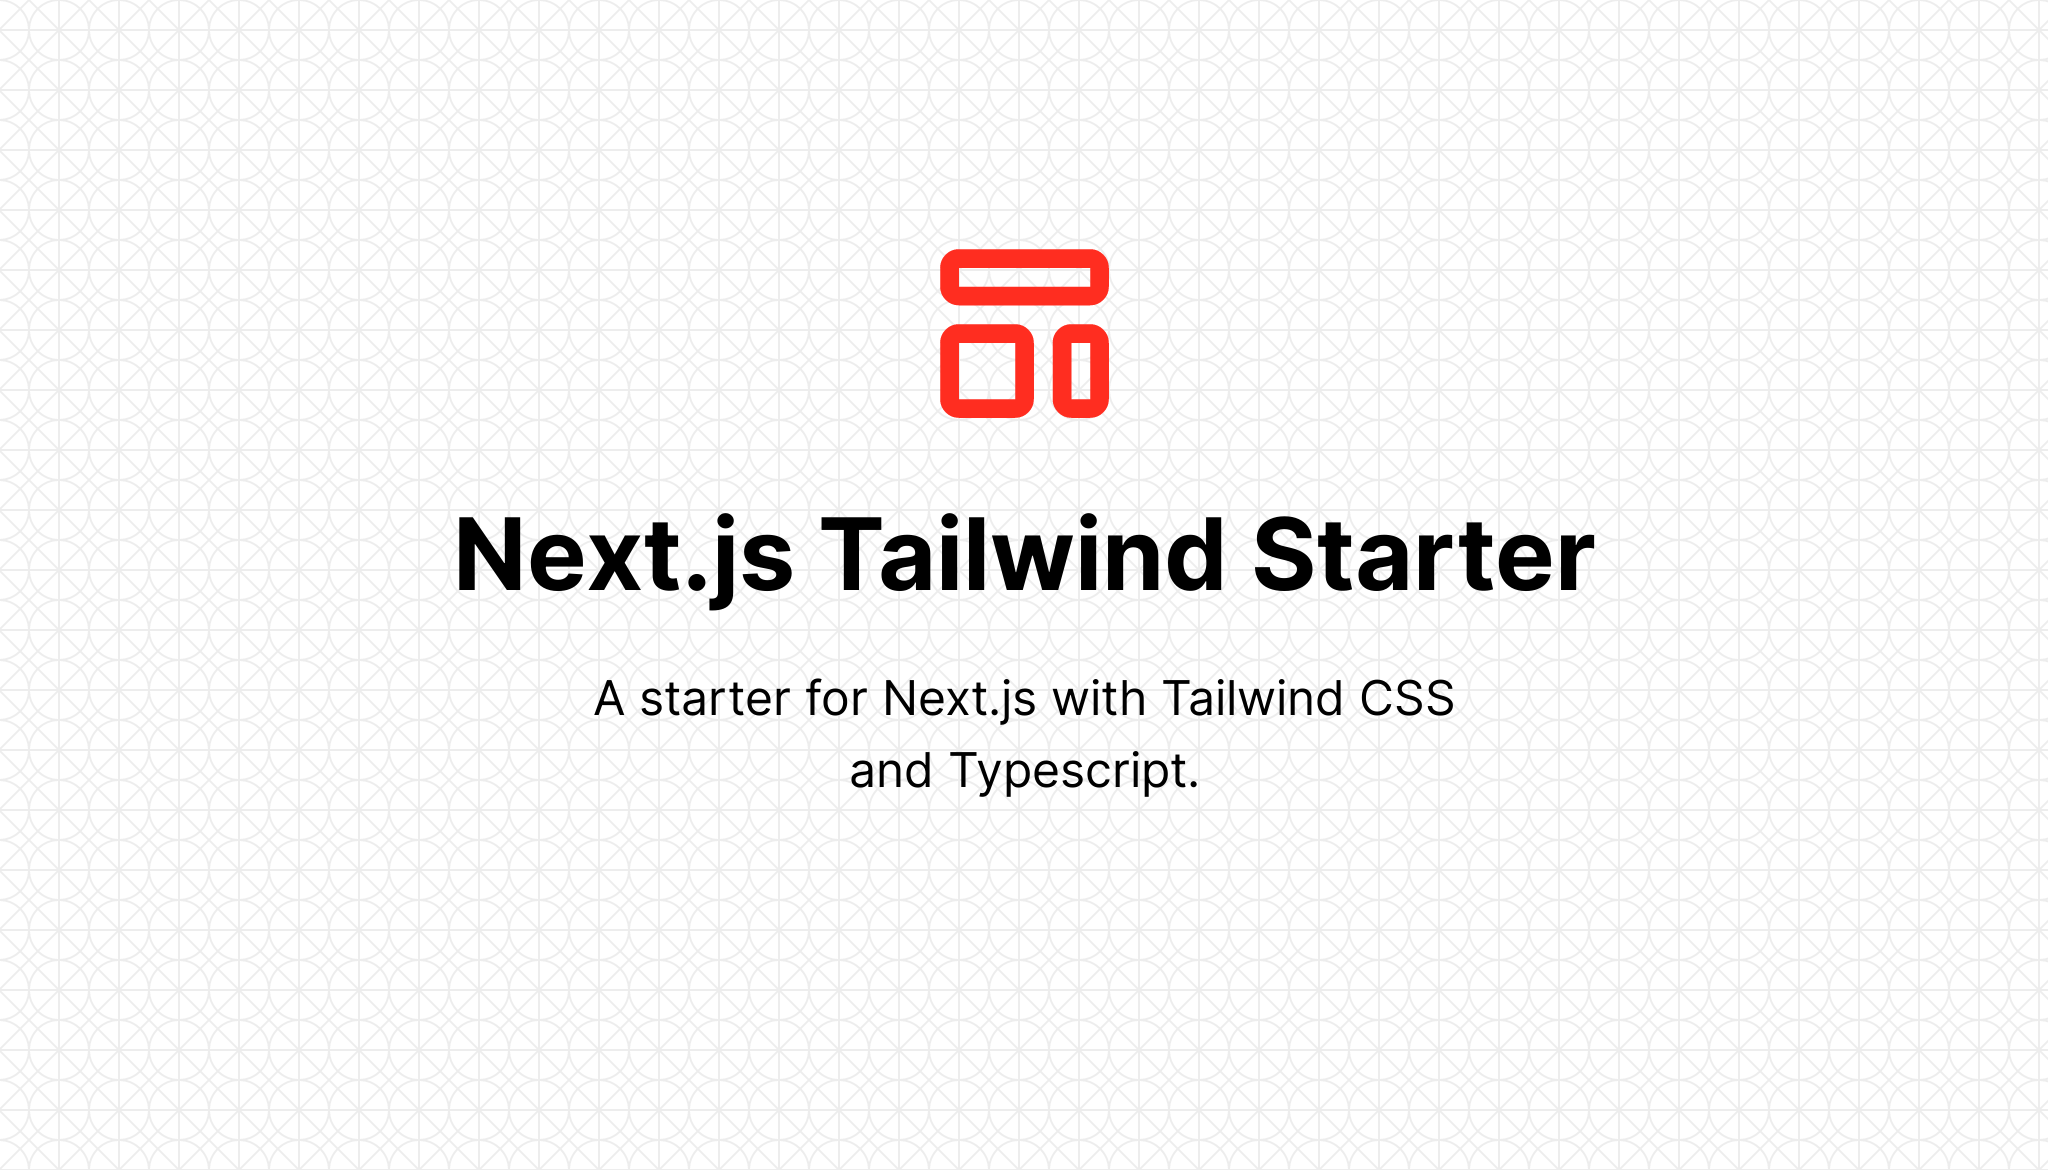
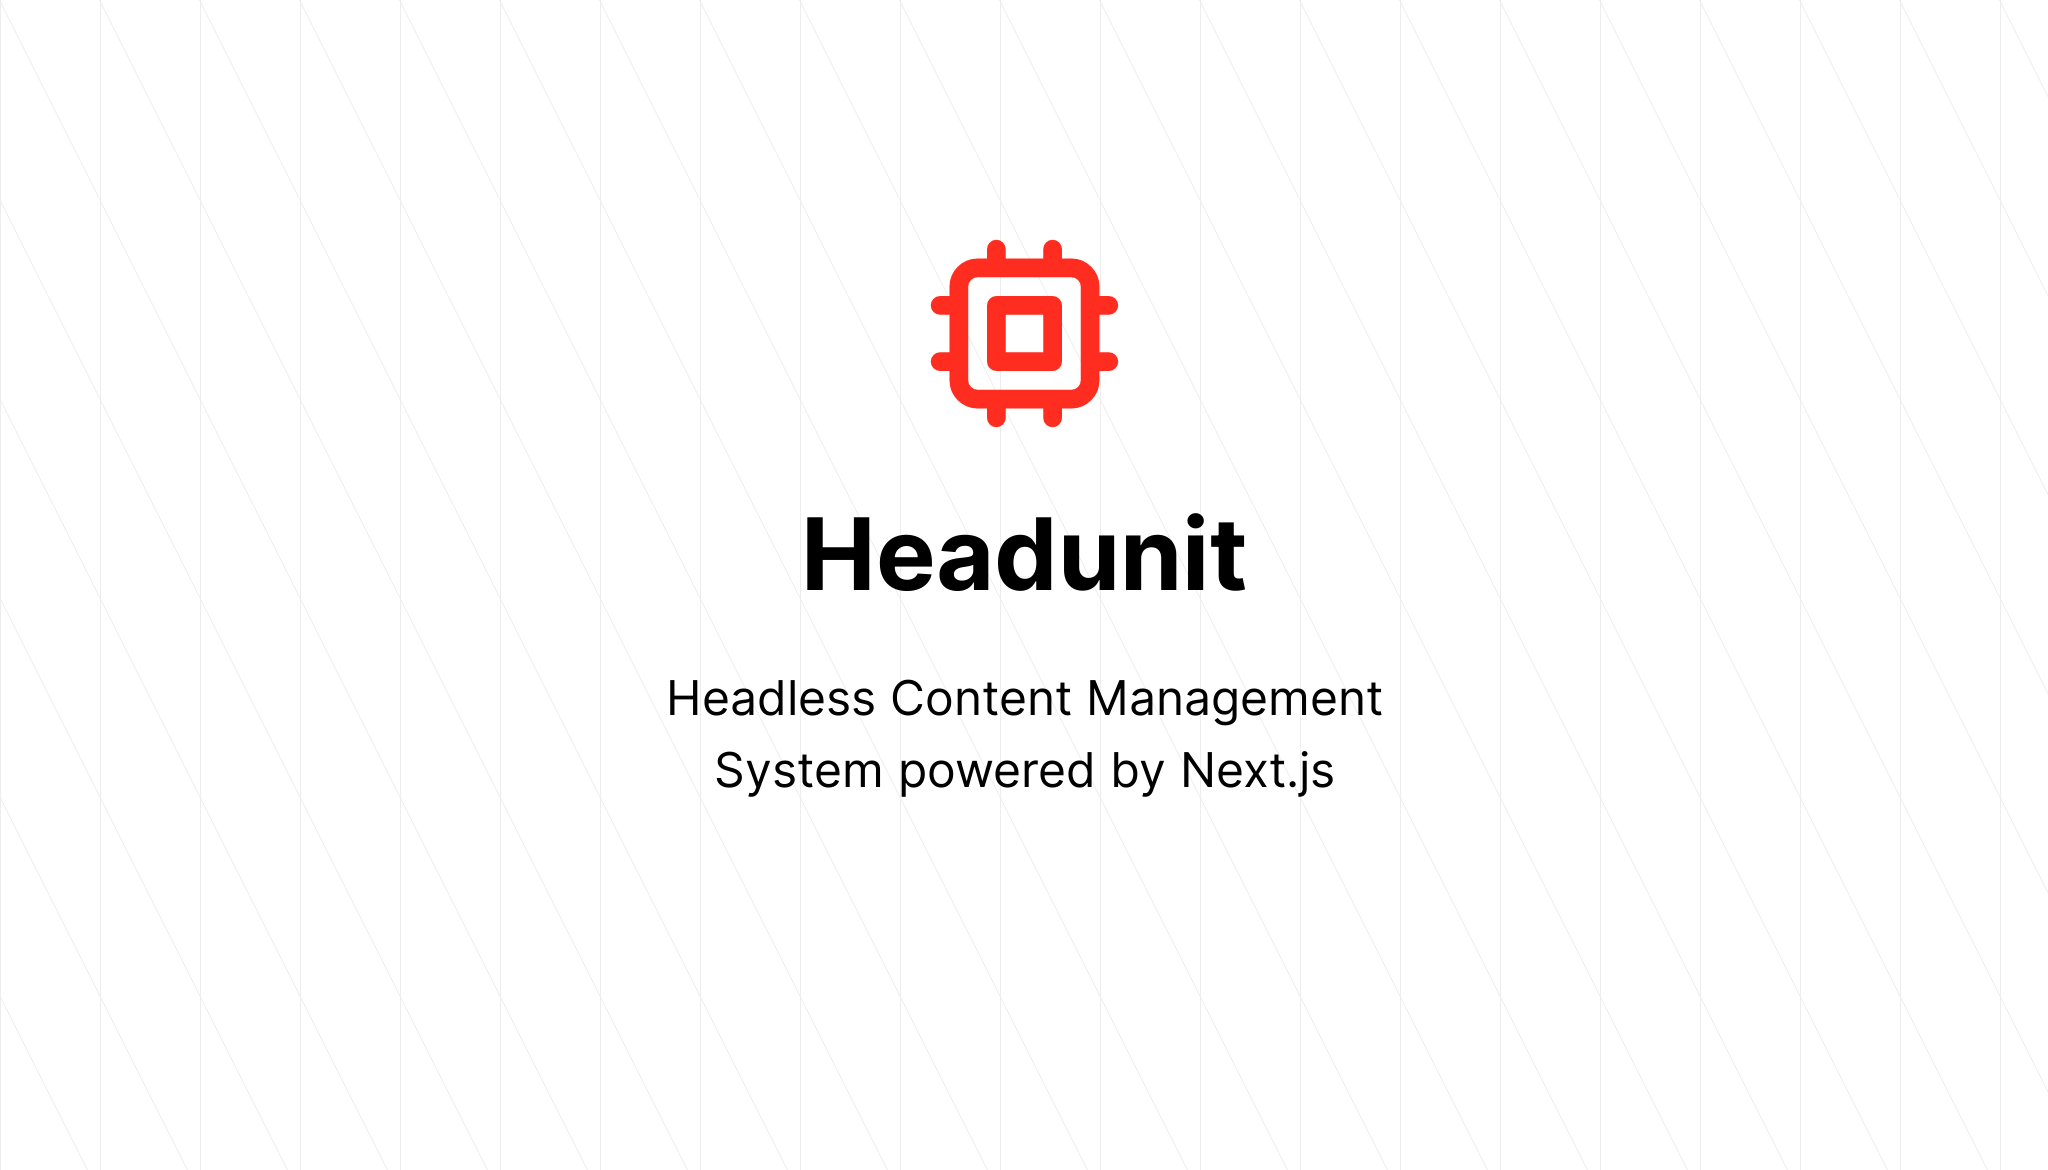
Push to Headunit

diff --git a/components/Elements/Maintenance.tsx b/components/Elements/Maintenance.tsx
@@ -28,7 +28,7 @@ const Maintenance = () => {
               </p>
               <div className='mt-6'>
                 <BasicLink
-                  href='https://aris.web.id'
+                  href='https://twitter.com/riipandi'
                   className='text-base font-medium text-brand-600 hover:text-brand-400'
                   newTab
                 >
@@ -41,7 +41,7 @@ const Maintenance = () => {
         <footer className='flex-shrink-0 w-full px-4 mx-auto max-w-7xl sm:px-6 lg:px-8'>
           <nav className='flex justify-center space-x-4'>
             <BasicLink href='https://aris.web.id' className='text-sm font-medium text-gray-500 hover:text-gray-600' newTab>
-              Homepage
+              Aris Ripandi
             </BasicLink>
             <span className='inline-block border-l border-gray-300' aria-hidden='true' />
             <BasicLink

diff --git a/config/site.ts b/config/site.ts
@@ -1,11 +1,11 @@
 export const siteMeta = {
-  defaultTitle: 'Elementail',
-  description: `Just another UI Kit using Tailwind CSS`,
+  defaultTitle: 'Headunit',
+  description: `Headless Content Management System powered by Next.js`,
   imageUrl: '/images/og-image.png',
   twitterUsername: '@riipandi',
 
   siteUrl: process.env.NEXT_PUBLIC_SITE_URL || 'http://localhost:3000',
-  maintenance: process.env.MAINTENANCE_MODE || false,
+  maintenance: process.env.MAINTENANCE_MODE || true,
 
   socials: {
     GitHub: 'https://github.com/riipandi',

diff --git a/next.config.js b/next.config.js
@@ -14,7 +14,7 @@ const nextConfig = {
   eslint: { dirs: ['.'] },
   reactStrictMode: true,
   poweredByHeader: false,
-  // basePath: isProd ? '/elementail-website' : null,
+  // basePath: isProd ? '/headunit-website' : null,
   assetPrefix: isProd ? 'https://headunit.js.org' : null
 }
 

diff --git a/readme.md b/readme.md
@@ -1,12 +1,14 @@
-![Github Cover](https://banners.beyondco.de/Next.js%20Tailwind%20Starter.png?theme=light&packageManager=&packageName=&pattern=pieFactory&style=style_1&description=A+starter+for+Next.js+with+Tailwind+CSS+and+Typescript.&md=1&showWatermark=1&fontSize=100px&images=template)
+![Github Cover](https://banners.beyondco.de/Headunit.png?theme=light&packageManager=&packageName=&pattern=architect&style=style_1&description=Headless+Content+Management+System+powered+by+Next.js&md=1&showWatermark=1&fontSize=100px&images=chip)
 
 <div align="center">
-    <strong>Elementail</strong>
+    <strong>Headless Content Management System powered by Next.js</strong>
 </div>
 
 ![separator](public/images/separator.jpg)
 
-Just another UI Kit using Tailwind CSS.
+A Headless CMS powered by [Next.js](https://nextjs.org/). Pre-configured with absolute import,
+[TailwindUI](https://tailwindui.com), [Framer Motion](https://www.framer.com/motion/), 
+and some goodies.
 
 ## Quick Start
 
@@ -15,6 +17,7 @@ yarn         # install dependencies
 yarn dev     # serve with hot reload at localhost:3000
 yarn build   # build for production
 yarn start   # launch generated build
+yarn export  # export generated build into static files
 ```
 
 > For detailed explanation on how things work, check out [Next.js docs](https://nextjs.org).
